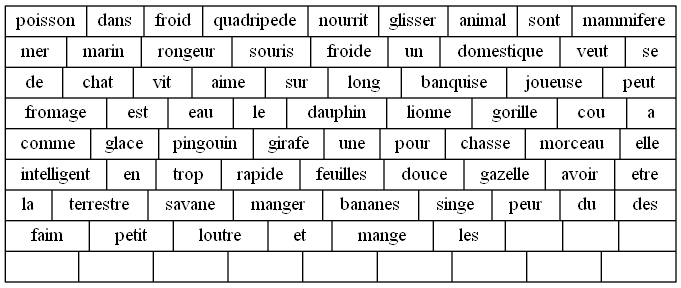
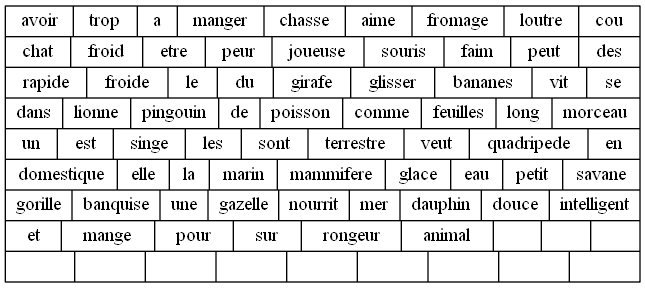
Visualization starting, but still bugging

diff --git a/grid_viz/viz/communication_grid.html b/grid_viz/viz/communication_grid.html
@@ -1,67 +1,70 @@
 <!DOCTYPE html>
 <meta charset="utf-8">
-        
-<!-- Load d3.js -->
-<script src="https://d3js.org/d3.v6.js"></script>
-        
-<!-- Create a div where the graph will take place -->
-<div id="my_dataviz"></div>
+<html>
+  <head>
+	<script src="http://d3js.org/d3.v6.js"></script>
+  </head>
 
+<body>
+	<div id='pictogram_grid'>
+		<div id='pictogram_grid'></div>
+	</div>
+</body>
 <script>
+
+var drawMatrix = function(){
 
 	//Bostock's margin convention
 	var margin = {top: 10, right: 10, bottom: 20, left: 70},
 			width  = 720 - margin.left - margin.right,
 			height = 480 - margin.top - margin.bottom;
 
-	// append the svg object to the body of the page
-	const svg = d3.select("#my_dataviz")
-	.append("svg")
-	  .attr("width", width + margin.left + margin.right)
-	  .attr("height", height + margin.top + margin.bottom)
-	.append("g")
-	  .attr("transform", `translate(${margin.left},${margin.top})`);
+	//create an svg with width and height
+	var svg = d3.select('#pictogram_grid')
+		.append('svg')
+		.attr("width", width)
+		.attr("height", height)
 
-	// Build X scales and axis:
-	const x = d3.scaleLinear()
-	  .range([ 0, width ])
-	  .domain([0,100])
-	svg.append("g")
-	  .attr("transform", `translate(0, ${height})`)
-	  .call(d3.axisBottom(x))
-	
-	// Build Y scales and axis:
-	const y = d3.scaleLinear()
-	  .range([ height, 0 ])
-	  .domain([0,100])
-	svg.append("g")
-	  .call(d3.axisLeft(y));
-	
-	// Build color scale
-	const myColor = d3.scaleLinear()
-	  .range(["white", "#69b3a2"])
-	  .domain([1,100])
-	
-	//Read the data
-	d3.csv("../../default.csv",d => (
-		{
-			word: d.word,
-			row: +d.row,
-			col: +d.col,
-			page: d.page,
-			identifier: d.identifier
-		}
-	)).then( function(data) {
-	
-	  svg.selectAll()
-		  .data(data, function(d) {return d.word+':'+d.word;})
-		  .enter()
-		  .join("rect")
-		  .attr("x", function(d) { return x(d.row) })
-		  .attr("y", function(d) { return y(d.col) })
-		  .attr("width", x.bandwidth() )
-		  .attr("height", y.bandwidth() )
-		  .style("fill", function(d) { return myColor(d.col)} )
-	
-	})
-	</script>
+	//10 rows and 10 columns 
+	var numRows = 10;
+	var numCols = 10;
+
+	//x and y axis scales
+	var y = d3.scaleBand()
+		.range([0,250])
+		.domain(d3.range(numRows));
+
+	var x = d3.scaleBand()
+		.range([0, 250])
+		.domain(d3.range(numCols));
+
+	d3.csv("../../default.csv", d => (
+	{
+		word:     d.word,
+		row:     +d.row,
+		col:    +d.col,
+		page: d.page,
+		identifier: d.identifier,
+	}
+	)).then(function(data) {
+
+		//container to hold the grid
+		var svg = svg.append("g")
+			.attr("transform", "translate(135,130)");
+		
+
+		svg.selectAll("pictograms")
+				.data(data)
+				.enter().append("rect")
+				.attr('x', function(d){return x(d.row%10);})
+				.attr('y', function(d){return y(Math.floor(d.col/10));})
+				.attr('width', 20)
+				.attr('height', 20)
+				.attr('stroke', 'black')
+				.attr('fill', 'white')	
+	}
+	);}
+	//call function to draw the graph
+	drawMatrix();
+</script>
+</html>
